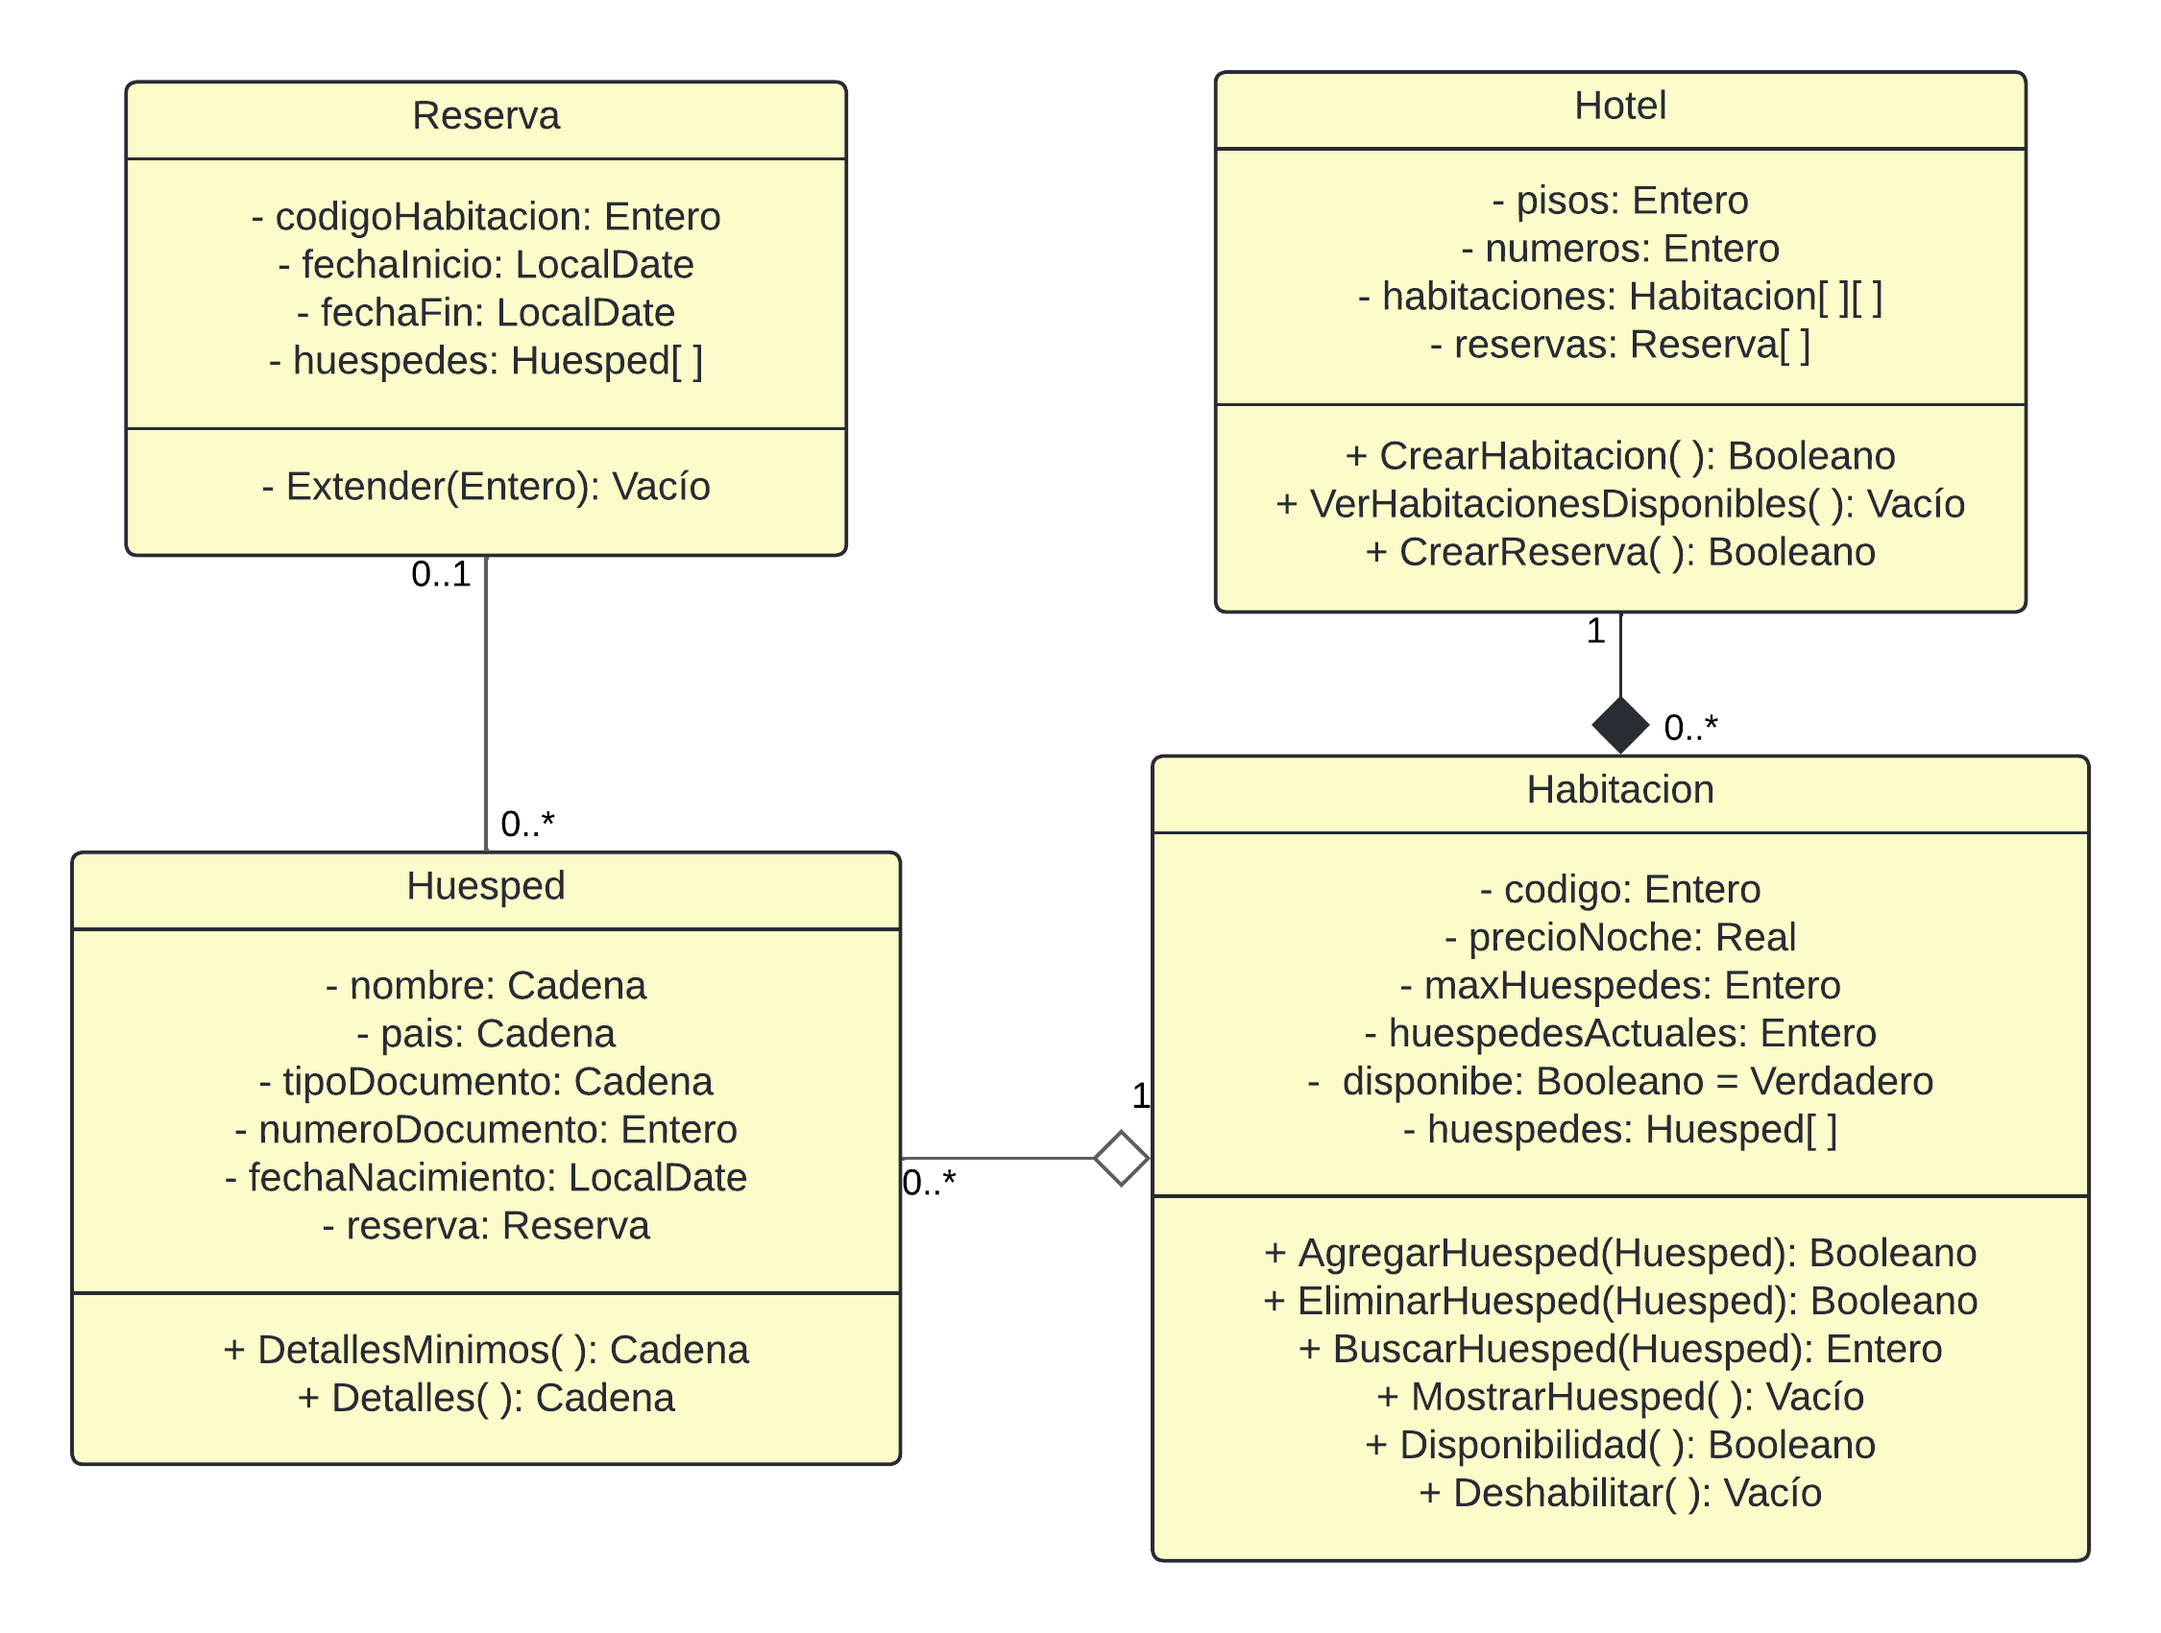
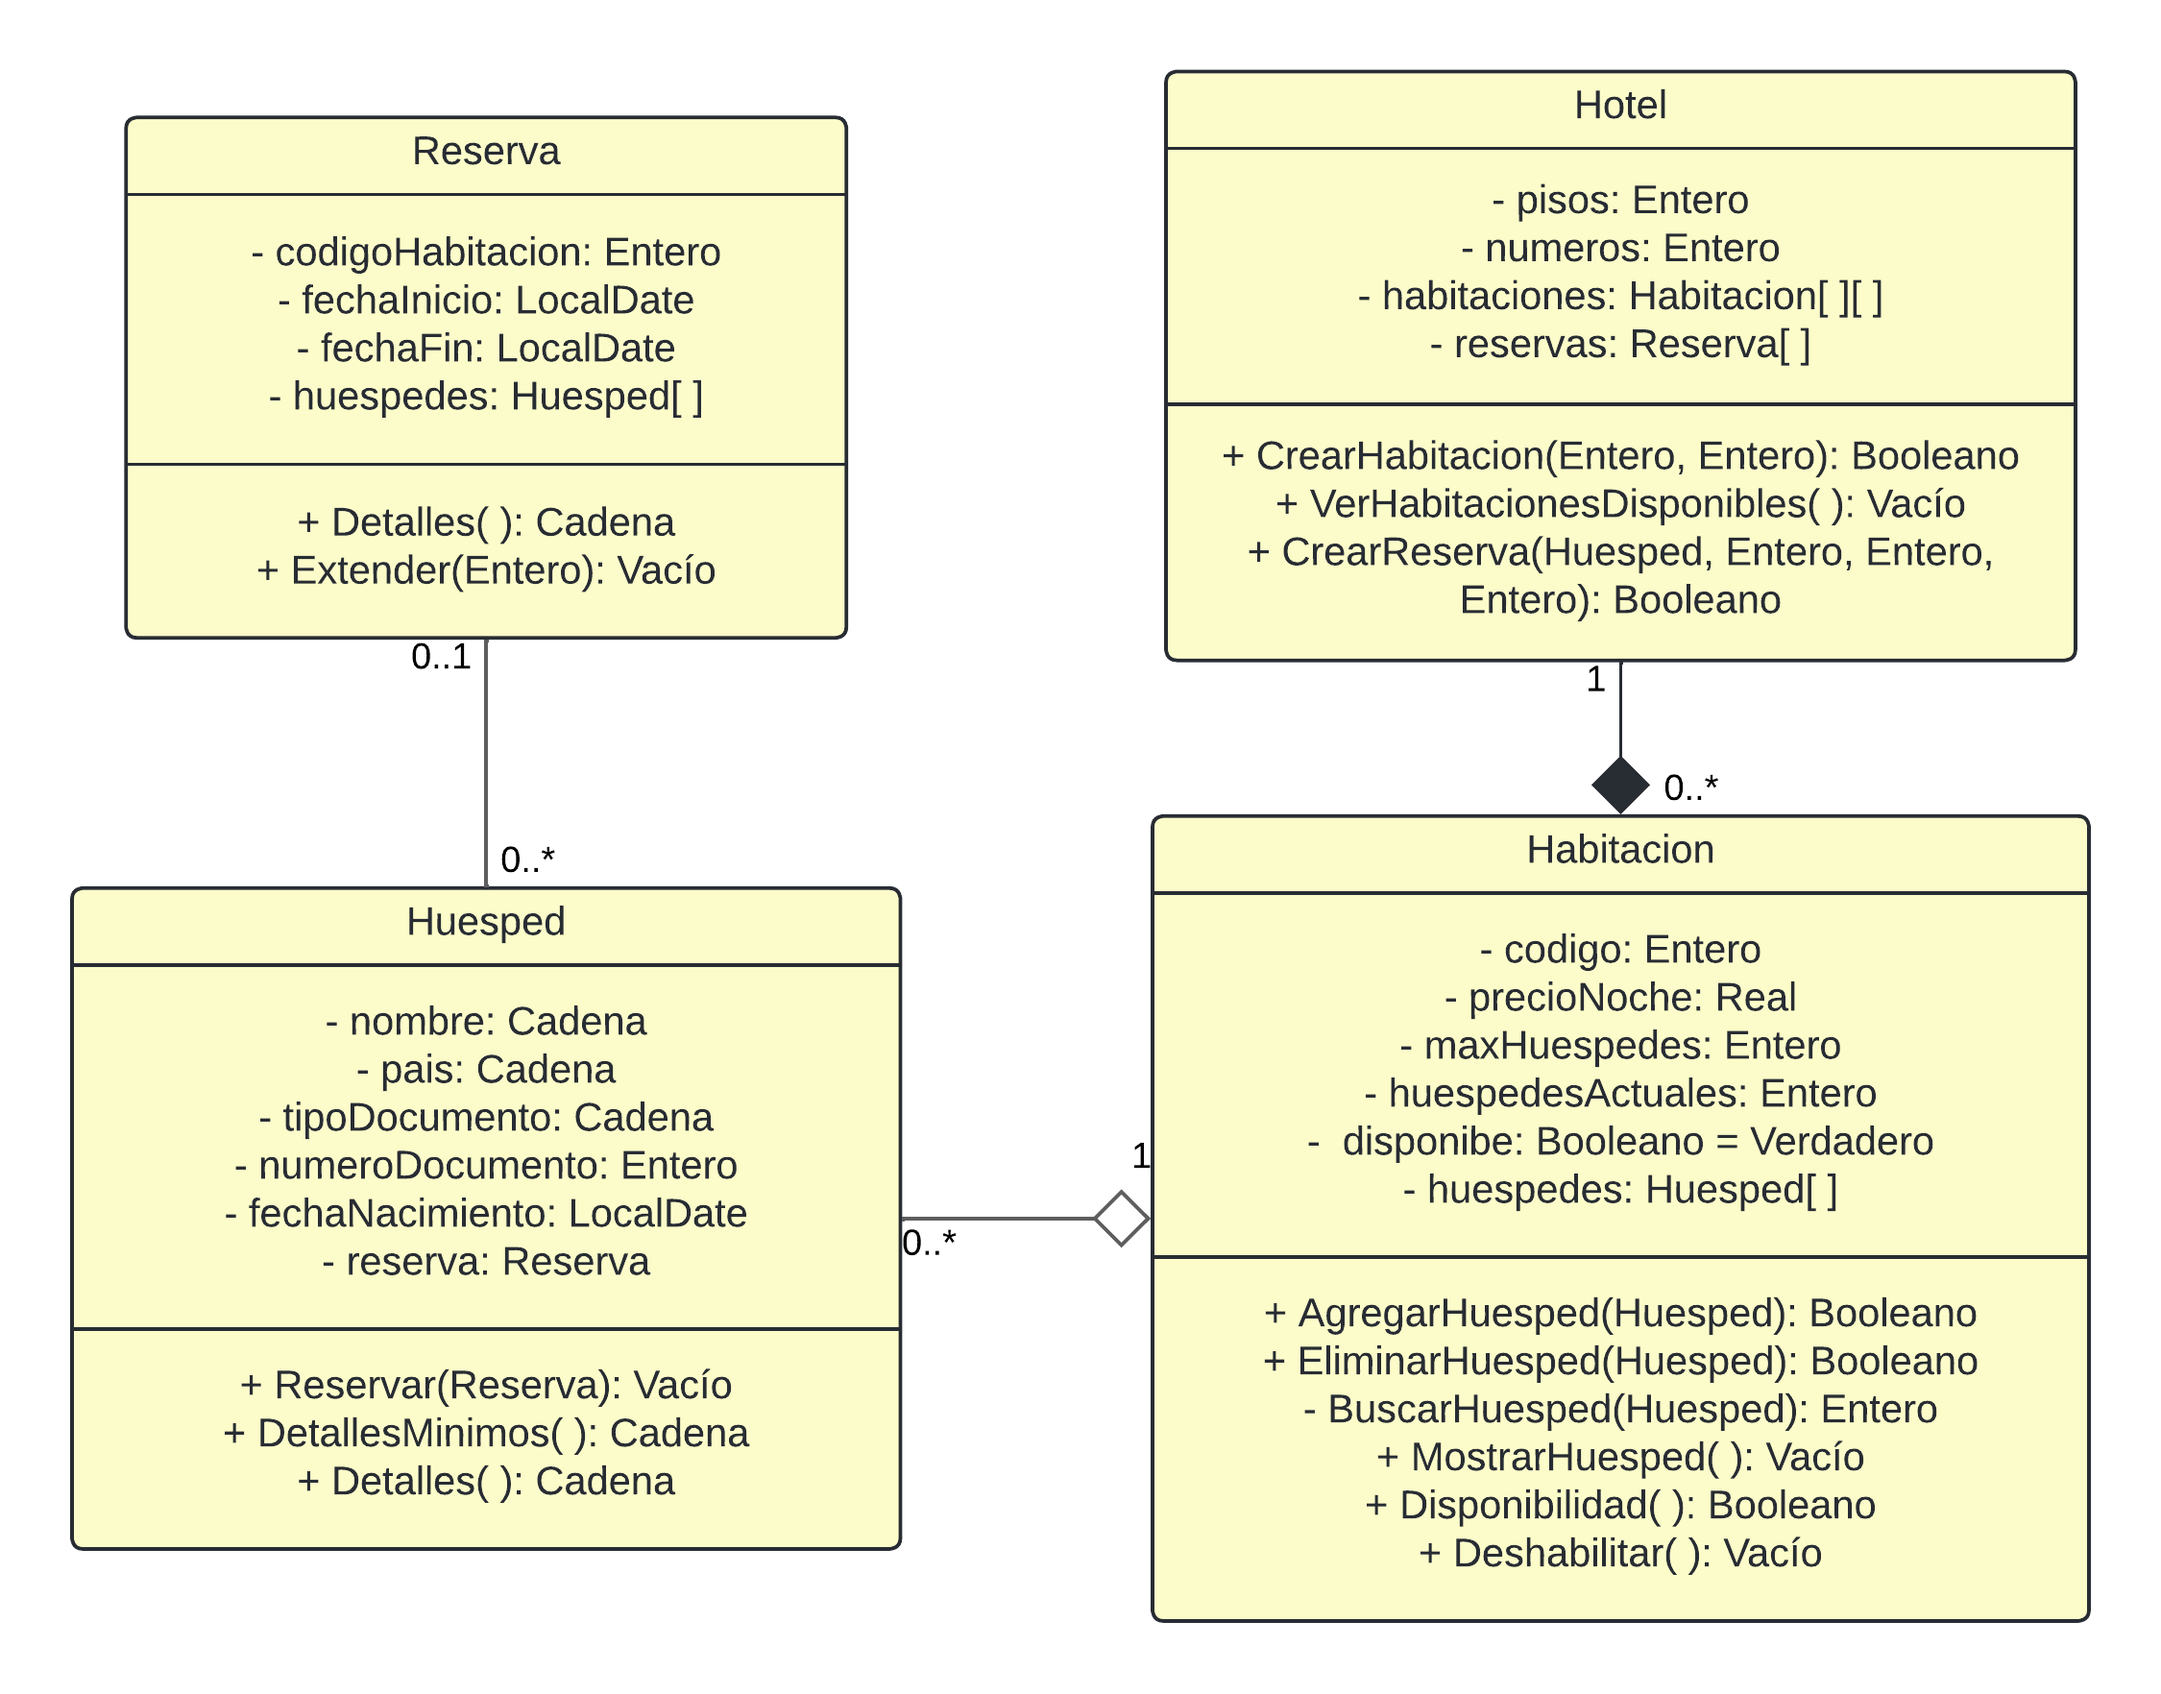
tests

diff --git a/src/Hotel.java b/src/Hotel.java
@@ -5,9 +5,10 @@ public class Hotel {
     private final Habitacion[][] habitaciones;
     private Reserva[] reservas;
     //constructores
+
     /**
      * Crea el hotel con la cantidad de pisos y habitaciones por piso indicados
-     * */
+     */
     public Hotel(int pisos, int numeros) {
         this.pisos = pisos;
         this.numeros = numeros;
@@ -15,12 +16,13 @@ public class Hotel {
     }
 
     //métodos
+
     /**
      * Crea una habitación en el piso y número indicados
-     * */
+     */
     public boolean CrearHabitacion(int piso, int numero) {
         if (habitaciones[piso][numero] == null) {
-            int codigo = piso * 100 + numero;
+            int codigo = (piso + 1) * 100 + numero + 1;
             habitaciones[piso][numero] = new Habitacion(codigo);
             return true;
         } else {
@@ -31,7 +33,7 @@ public class Hotel {
     /**
      * Muestra las habitaciones existentes
      * indicando si están ocupadas o disponibles
-     * */
+     */
     public void VerHabitacionesDisponibles() {
         System.out.print("-------------------------------\n");
         System.out.println("Habitaciones Disponibles:");
@@ -52,23 +54,33 @@ public class Hotel {
 
     /**
      * Crea una reserva, la asigna a los huéspedes y asigna los huéspedes a las habitaciones
+     *
      * @param huespedes arreglo de los huéspedes que realizarán la reserva
-     * @param piso el piso de la habitación a reservar
-     * @param numero el número de la habitación a reservar
-     * @param dias la cantidad de días que durará la reserva
-     * */
+     * @param piso      el piso de la habitación a reservar
+     * @param numero    el número de la habitación a reservar
+     * @param dias      la cantidad de días que durará la reserva
+     */
     public boolean CrearReserva(Huesped[] huespedes, int piso, int numero, int dias) {
         if (habitaciones[piso][numero] != null && habitaciones[piso][numero].Disponible()) {
             int codigo = piso * 100 + numero;
             Reserva reserva = new Reserva(codigo, dias, huespedes);
             for (Huesped huesped : huespedes) {
-                huesped.setReserva(reserva);
                 habitaciones[piso][numero].AgregarHuesped(huesped);
             }
             return true;
         } else {
             return false;
         }
+    }
 
+    public boolean CrearReserva(Huesped huesped, int piso, int numero, int dias) {
+        if (habitaciones[piso][numero] != null && habitaciones[piso][numero].Disponible()) {
+            int codigo = (piso + 1) * 100 + numero + 1;
+            Reserva reserva = new Reserva(codigo, dias, huesped);
+            habitaciones[piso][numero].AgregarHuesped(huesped);
+            return true;
+        } else {
+            return false;
+        }
     }
 }

diff --git a/src/Reserva.java b/src/Reserva.java
@@ -10,8 +10,8 @@ public class Reserva {
     //constructores
 
     /**
-     * Crea una reserva con la fecha de inicio de hoy y la fecha de fin en la cantidad de días indicada
-     *
+     * Crea una reserva con la fecha de inicio de hoy y la fecha de fin en la cantidad de días indicada.
+     * Asigna automáticamente la reserva a los huéspedes
      * @param codigoHabitacion el código de la habitación a reservar
      * @param dias             la cantidad de días que durará la reserva
      */
@@ -20,20 +20,18 @@ public class Reserva {
         this.huespedes = huespedes;
         this.fechaInicio = LocalDate.now();
         this.fechaFin = fechaInicio.plusDays(dias);
+        for (Huesped huesped : huespedes) {
+            huesped.Reservar(this);
+        }
     }
 
-    /**
-     * Crea una reserva con las fechas de inicio y fin indicadas
-     *
-     * @param codigoHabitacion el código de la habitación a reservar
-     * @param fechaInicio      la fecha de inicio de la reserva
-     * @param fechaFin         la fecha de fin de la reserva
-     */
-    public Reserva(int codigoHabitacion, LocalDate fechaInicio, LocalDate fechaFin, Huesped[] huespedes) {
+    public Reserva(int codigoHabitacion, int dias, Huesped huesped) {
         this.codigoHabitacion = codigoHabitacion;
-        this.huespedes = huespedes;
-        this.fechaInicio = fechaInicio;
-        this.fechaFin = fechaFin;
+        this.huespedes = new Huesped[1];
+        this.huespedes[0] = huesped;
+        huesped.Reservar(this);
+        this.fechaInicio = LocalDate.now();
+        this.fechaFin = fechaInicio.plusDays(dias);
     }
 
     //métodos
@@ -44,4 +42,10 @@ public class Reserva {
         fechaFin = fechaFin.plusDays(dias);
     }
 
+    /**
+     * Devuelve los detalles de la reserva
+     * */
+    public String Detalles() {
+        return "Reserva: " + codigoHabitacion + " - " + fechaInicio + " - " + fechaFin;
+    }
 }

diff --git a/src/Habitacion.java b/src/Habitacion.java
@@ -75,17 +75,6 @@ public class Habitacion {
     }
 
     /**
-     * Elimina al huésped en la posición de la lista indicada
-     * @param pos la posición del huésped a eliminar
-     * */
-    private void EliminarHuesped(int pos) {
-        for (int i = pos; i < huespedesActuales - 1; i++) {
-            huespedes[i] = huespedes[i + 1];
-        }
-        huespedesActuales--;
-    }
-
-    /**
      * Devuelve la disponibilidad de la habitación
      * */
     public boolean Disponible() {
@@ -98,19 +87,10 @@ public class Habitacion {
      * */
     public void Deshabilitar() {
         for (int i = 0; i < huespedesActuales; i++) {
-            huespedes[i].setReserva(null);
+            huespedes[i].Reservar(null);
             huespedes[i] = null;
         }
         huespedesActuales = 0;
         this.disponible = false;
-    }
-}
-
-class TestHabitacion {
-    public static void main(String[] args) {
-        Habitacion habitacion = new Habitacion(101);
-        Huesped huesped1 = new Huesped("Juan", "DNI", 12345678, "Argentina", LocalDate.of(1990, 1, 1));
-        habitacion.AgregarHuesped(huesped1);
-        System.out.println(habitacion.Detalles());
     }
 }

diff --git a/src/test/TestHabitacion.java b/src/test/TestHabitacion.java
@@ -1,0 +1,20 @@
+import java.time.LocalDate;
+
+class TestHabitacion {
+    public static void main(String[] args) {
+        boolean[] pruebas = new boolean[3];
+        Habitacion habitacion = new Habitacion(101);
+        Huesped[] huespedes = new Huesped[2];
+        huespedes[0] = new Huesped("Juan", "DNI", 12345678, "Argentina", LocalDate.of(1990, 1, 1));
+        huespedes[1] = new Huesped("Ana", "DNI", 87654321, "Argentina", LocalDate.of(1995, 2, 2));
+        for (Huesped huesped : huespedes) {
+            pruebas[0] = habitacion.AgregarHuesped(huesped);
+        }
+        pruebas[1] = habitacion.EliminarHuesped(huespedes[0]);
+        habitacion.Deshabilitar();
+        pruebas[2] = !habitacion.Disponible() && !habitacion.EliminarHuesped(huespedes[0]);
+        System.out.println("Prueba 1 (añadir huésped): " + pruebas[0]);
+        System.out.println("Prueba 2 (eliminar huésped): " + pruebas[1]);
+        System.out.println("Prueba 3 (deshabilitar): " + pruebas[2]);
+    }
+}

diff --git a/src/Huesped.java b/src/Huesped.java
@@ -25,7 +25,7 @@ public class Huesped {
     /**
      * Asigna una reserva a un huésped
      * */
-    public void setReserva(Reserva reserva) {
+    public void Reservar(Reserva reserva) {
         this.reserva = reserva;
     }
 
@@ -33,7 +33,7 @@ public class Huesped {
      * Devuelve el nombre, tipo y número de documento del huésped
      * */
     public String DetallesMinimos() {
-        return "Huésped: " + nombre + " - " + tipoDocumento + ": " + numeroDocumento + "\n";
+        return "Huésped: " + nombre + " - " + tipoDocumento + ": " + numeroDocumento;
     }
 
     /**
@@ -42,7 +42,7 @@ public class Huesped {
     public String Detalles() {
         String detalles = "Huésped: " + nombre + " - " + tipoDocumento + " " + numeroDocumento + " - " + pais + " - " + fechaNacimiento;
         if (reserva != null) {
-            detalles += " - Reserva: " + reserva;
+            detalles += " - Reserva: " + reserva.Detalles();
         }
         return detalles;
     }

diff --git a/src/test/TestReserva.java b/src/test/TestReserva.java
@@ -1,0 +1,13 @@
+import java.time.LocalDate;
+
+public class TestReserva {
+    public static void main(String[] args) {
+        Huesped[] huespedes = new Huesped[2];
+        huespedes[0] = new Huesped("Juan", "DNI", 12345678, "Argentina", LocalDate.of(1990, 1, 1));
+        huespedes[1] = new Huesped("Ana", "DNI", 87654321, "Argentina", LocalDate.of(1995, 2, 2));
+        Reserva reserva = new Reserva(101, 3, huespedes);
+        System.out.println(huespedes[0].Detalles());
+        reserva.Extender(30);
+        System.out.println(huespedes[0].Detalles());
+    }
+}

diff --git a/src/test/TestHotel.java b/src/test/TestHotel.java
@@ -1,0 +1,13 @@
+import java.time.LocalDate;
+
+public class TestHotel {
+    public static void main(String[] args) {
+        boolean[] pruebas = new boolean[2];
+        Huesped h1 = new Huesped("Juan", "DNI", 12345678, "Argentina", LocalDate.of(1990, 1, 1));
+        Hotel hotel = new Hotel(3, 5);
+        pruebas[0] = hotel.CrearHabitacion(0, 0);
+        pruebas[1] = hotel.CrearReserva(h1, 0, 0, 3);
+        System.out.println("Prueba 1 (crear habitación): " + pruebas[0]);
+        System.out.println("Prueba 2 (crear reserva): " + pruebas[1]);
+    }
+}

diff --git a/src/test/TestHuesped.java b/src/test/TestHuesped.java
@@ -1,0 +1,11 @@
+import java.time.LocalDate;
+
+public class TestHuesped {
+    public static void main(String[] args) {
+        Huesped h1 = new Huesped("Juan", "DNI", 12345678, "Argentina", LocalDate.of(1990, 1, 1));
+        System.out.println(h1.DetallesMinimos());
+        System.out.println(h1.Detalles());
+        Reserva reserva = new Reserva(101, 3, h1);
+        System.out.println(h1.Detalles());
+    }
+}
